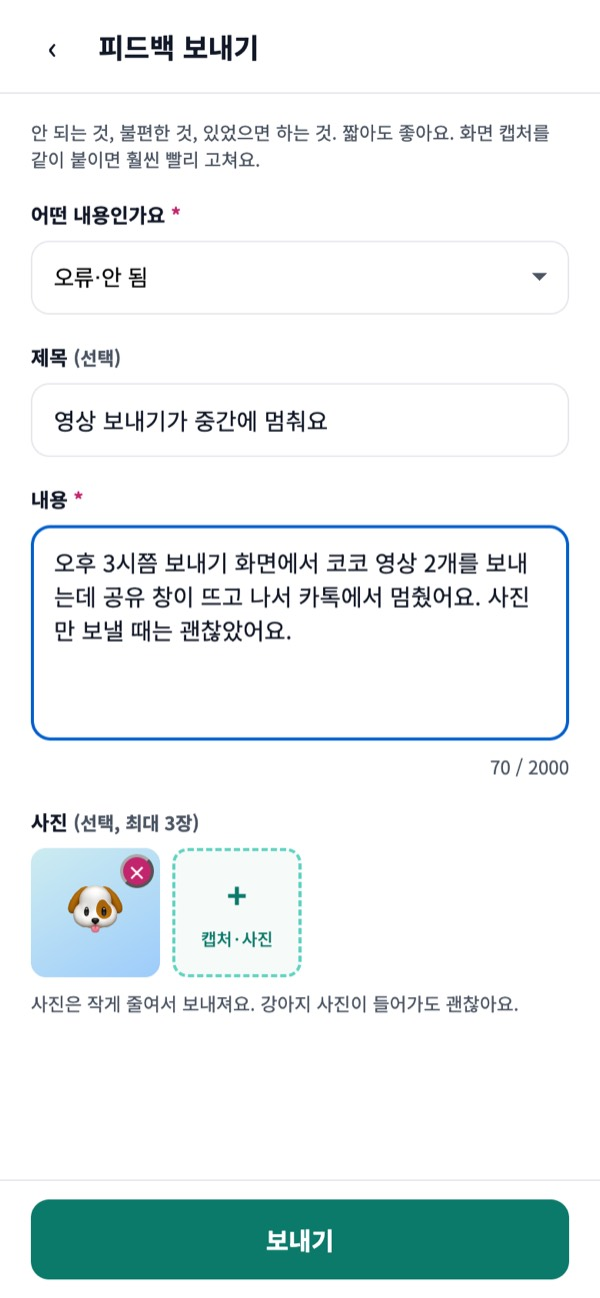
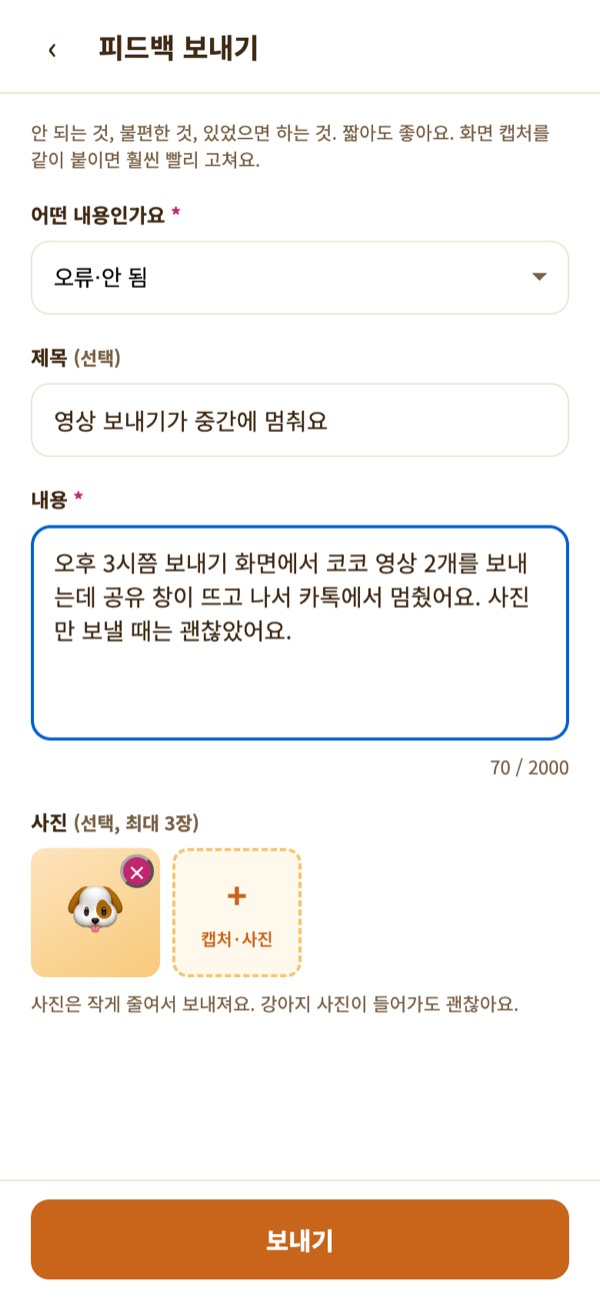
앱 색을 아이콘 톤(크림·허니·브라운·오렌지)으로 전체 교체, 사용 안내 그림 12장 재캡처

diff --git a/web/src/styles.css b/web/src/styles.css
@@ -1,13 +1,14 @@
-/* 하루멍 색 토큰. 디자인 캔버스의 색상 템플릿과 같다. */
+/* 하루멍 색 토큰. 아이콘(크림·허니·브라운·오렌지)과 같은 톤.
+   변수 이름 --mint*는 역사적 이름이고 값은 브랜드 오렌지·허니·크림이다. */
 :root {
   --white: #ffffff;
-  --surface: #f6faf9;
-  --line: #e5e7eb;
-  --text: #111827;
-  --text-2: #4b5563;
-  --mint: #0b7a6b;
-  --mint-mid: #5fd3c0;
-  --mint-light: #d7f3ee;
+  --surface: #fff8ec;
+  --line: #efe3cf;
+  --text: #3f2a14;
+  --text-2: #7a6247;
+  --mint: #c9641b;
+  --mint-mid: #f6c46b;
+  --mint-light: #ffe9cc;
   --blue: #2563eb;
   --blue-dark: #1d4ed8;
   --blue-mid: #93c5fd;
@@ -15,8 +16,8 @@
   --pink: #c2256d;
   --pink-mid: #f9a8d4;
   --pink-light: #fce7f3;
-  --gray: #f3f4f6;
-  --overlay: rgba(17, 24, 39, 0.55);
+  --gray: #f6efe3;
+  --overlay: rgba(63, 42, 20, 0.55);
   --r-card: 16px;
   --r-control: 12px;
   --safe-top: env(safe-area-inset-top, 0px);

diff --git a/web/src/dev/seed.ts b/web/src/dev/seed.ts
@@ -45,7 +45,7 @@ async function fakeVideo(label: string, seconds = 3): Promise<{ blob: Blob; mime
   await new Promise<void>((resolve) => {
     const frame = () => {
       const t = (performance.now() - t0) / 1000;
-      ctx.fillStyle = '#0B7A6B'; ctx.fillRect(0, 0, c.width, c.height);
+      ctx.fillStyle = '#C9641B'; ctx.fillRect(0, 0, c.width, c.height);
       ctx.fillStyle = '#fff'; ctx.font = '160px system-ui'; ctx.textAlign = 'center'; ctx.textBaseline = 'middle';
       ctx.fillText('🐕', 640 + Math.sin(t * 3) * 300, 360);
       ctx.font = 'bold 48px system-ui'; ctx.fillText(label, 640, 620);

diff --git a/web/index.html b/web/index.html
@@ -3,7 +3,7 @@
   <head>
     <meta charset="UTF-8" />
     <meta name="viewport" content="width=device-width, initial-scale=1.0, viewport-fit=cover, user-scalable=no" />
-    <meta name="theme-color" content="#0B7A6B" />
+    <meta name="theme-color" content="#C9641B" />
     <meta name="apple-mobile-web-app-capable" content="yes" />
     <meta name="mobile-web-app-capable" content="yes" />
     <meta name="apple-mobile-web-app-status-bar-style" content="default" />

diff --git a/web/vite.config.ts b/web/vite.config.ts
@@ -26,7 +26,7 @@ export default defineConfig({
         display: 'standalone',
         orientation: 'portrait',
         background_color: '#FDD963',
-        theme_color: '#0B7A6B',
+        theme_color: '#C9641B',
         icons: [
           { src: 'icon-192.png', sizes: '192x192', type: 'image/png', purpose: 'any' },
           { src: 'icon-512.png', sizes: '512x512', type: 'image/png', purpose: 'any' },
